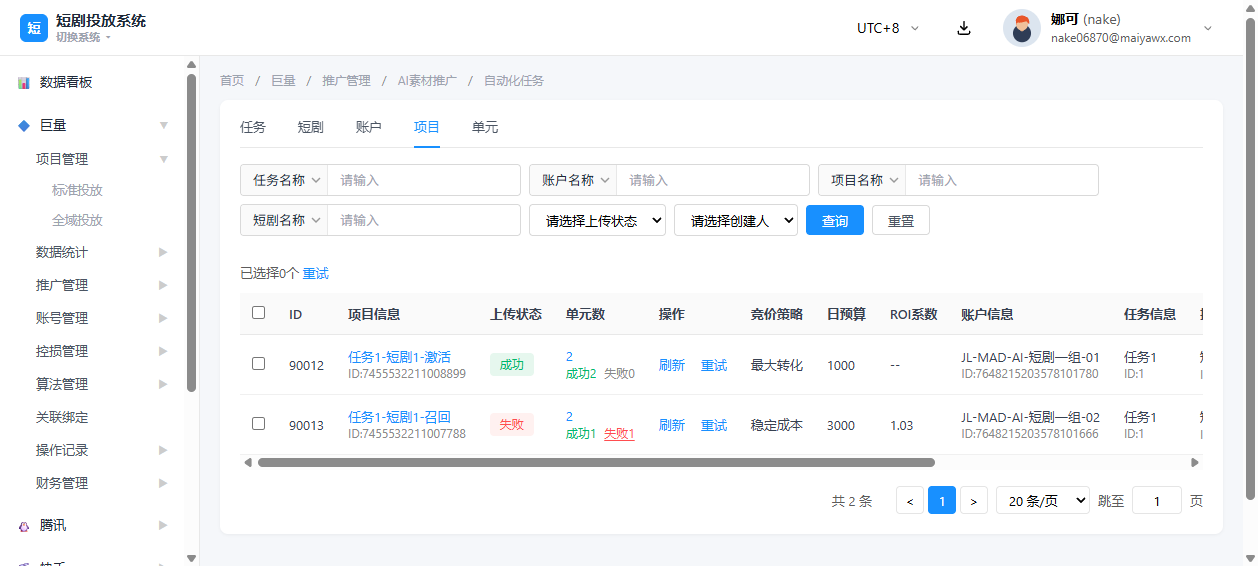
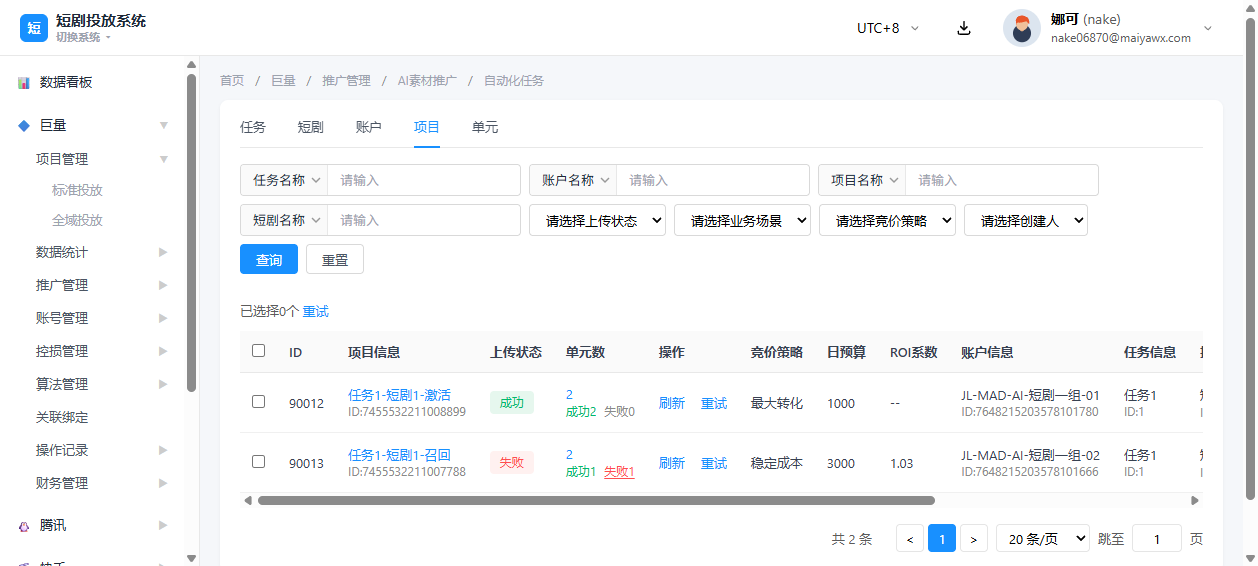
feat(domestic): AI素材推广自动化任务-项目/单元补齐业务场景与竞价策略筛选项及字段，业务场景统一为端原生IAA/端原生付费

diff --git a/index.html b/index.html
@@ -1495,6 +1495,16 @@
                     <option value="fail">失败</option>
                   </select>
                   <select class="filter-select">
+                    <option value="">请选择业务场景</option>
+                    <option value="dyy-iaa">端原生IAA</option>
+                    <option value="dyy-pay">端原生付费</option>
+                  </select>
+                  <select class="filter-select">
+                    <option value="">请选择竞价策略</option>
+                    <option value="stable-cost">稳定成本</option>
+                    <option value="max-convert">最大转化</option>
+                  </select>
+                  <select class="filter-select">
                     <option value="">请选择创建人</option>
                     <option value="nake">娜可</option>
                     <option value="huanxue">还音</option>
@@ -1552,7 +1562,7 @@
                             <div style="font-size: 12px; color: var(--color-text-tertiary);">ID:1</div>
                           </td>
                           <td>短剧1<br /><span style="color:var(--color-text-tertiary);">ID:1001</span></td>
-                          <td>崛原生免费</td>
+                          <td>端原生付费</td>
                           <td>娜可</td>
                           <td>2026-10-20 10:12:35</td>
                         </tr>
@@ -1578,7 +1588,7 @@
                             <div style="font-size: 12px; color: var(--color-text-tertiary);">ID:1</div>
                           </td>
                           <td>短剧1<br /><span style="color:var(--color-text-tertiary);">ID:1001</span></td>
-                          <td>崛原生免费</td>
+                          <td>端原生IAA</td>
                           <td>娜可</td>
                           <td>2026-10-20 10:12:38</td>
                         </tr>
@@ -1642,6 +1652,16 @@
                     <option value="fail">失败</option>
                   </select>
                   <select class="filter-select">
+                    <option value="">请选择业务场景</option>
+                    <option value="dyy-iaa">端原生IAA</option>
+                    <option value="dyy-pay">端原生付费</option>
+                  </select>
+                  <select class="filter-select">
+                    <option value="">请选择竞价策略</option>
+                    <option value="stable-cost">稳定成本</option>
+                    <option value="max-convert">最大转化</option>
+                  </select>
+                  <select class="filter-select">
                     <option value="">请选择创建人</option>
                     <option value="nake">娜可</option>
                     <option value="huanxue">还音</option>
@@ -1665,6 +1685,7 @@
                           <th>上传状态</th>
                           <th>操作</th>
                           <th>竞价策略</th>
+                          <th>业务场景</th>
                           <th>项目信息</th>
                           <th>账户信息</th>
                           <th>任务信息</th>
@@ -1683,6 +1704,7 @@
                           <td><span class="tag tag-success">成功</span></td>
                           <td><div class="row-actions"><button class="row-action-btn" onclick="refreshAiAutoRow('单元',30021)">刷新</button> <button class="row-action-btn" onclick="retryAiAutoRow('单元',30021)">重试</button></div></td>
                           <td>最大转化</td>
+                          <td>端原生付费</td>
                           <td>
                             任务1-短剧1-激活
                             <div style="font-size: 12px; color: var(--color-text-tertiary);">ID:7455532211008899</div>
@@ -1708,6 +1730,7 @@
                           <td><span class="tag tag-error">失败</span></td>
                           <td><div class="row-actions"><button class="row-action-btn" onclick="refreshAiAutoRow('单元',30020)">刷新</button> <button class="row-action-btn" onclick="retryAiAutoRow('单元',30020)">重试</button></div></td>
                           <td>稳定成本</td>
+                          <td>端原生IAA</td>
                           <td>
                             任务1-短剧1-召回
                             <div style="font-size: 12px; color: var(--color-text-tertiary);">ID:7455532211007788</div>
@@ -1817,7 +1840,7 @@
                           </div>
                         </div>
                       </div>
-                      <div class="ai-schedule-section" style="padding-top: 20px; border-top: 1px solid var(--color-border);">
+                      <div class="ai-schedule-section" style="padding-top: 20px;">
                         <h4 class="form-section-title">投放配置</h4>
                         <div class="form-row">
                           <div class="form-item">
@@ -1848,7 +1871,7 @@
                           </div>
                         </div>
                       </div>
-                      <div class="ai-schedule-section" style="padding-top: 20px; border-top: 1px solid var(--color-border);">
+                      <div class="ai-schedule-section" style="padding-top: 20px;">
                         <h4 class="form-section-title">项目排期</h4>
                         <div class="form-row">
                           <div class="form-item">
@@ -1910,7 +1933,7 @@
                           </div>
                         </div>
                       </div>
-                      <div class="ai-schedule-section" style="padding-top: 20px; border-top: 1px solid var(--color-border);">
+                      <div class="ai-schedule-section" style="padding-top: 20px;">
                         <h4 class="form-section-title">投放配置</h4>
                         <div class="form-row">
                           <div class="form-item">
@@ -1925,7 +1948,7 @@
                           </div>
                         </div>
                       </div>
-                      <div class="ai-schedule-section" style="padding-top: 20px; border-top: 1px solid var(--color-border);">
+                      <div class="ai-schedule-section" style="padding-top: 20px;">
                         <h4 class="form-section-title">项目排期</h4>
                         <div class="form-row">
                           <div class="form-item">
@@ -1987,7 +2010,7 @@
                           </div>
                         </div>
                       </div>
-                      <div class="ai-schedule-section" style="padding-top: 20px; border-top: 1px solid var(--color-border);">
+                      <div class="ai-schedule-section" style="padding-top: 20px;">
                         <h4 class="form-section-title">投放配置</h4>
                         <div class="form-row">
                           <div class="form-item">
@@ -2015,7 +2038,7 @@
                           </div>
                         </div>
                       </div>
-                      <div class="ai-schedule-section" style="padding-top: 20px; border-top: 1px solid var(--color-border);">
+                      <div class="ai-schedule-section" style="padding-top: 20px;">
                         <h4 class="form-section-title">项目排期</h4>
                         <div class="form-row">
                           <div class="form-item">
@@ -2077,7 +2100,7 @@
                           </div>
                         </div>
                       </div>
-                      <div class="ai-schedule-section" style="padding-top: 20px; border-top: 1px solid var(--color-border);">
+                      <div class="ai-schedule-section" style="padding-top: 20px;">
                         <h4 class="form-section-title">投放配置</h4>
                         <div class="form-row">
                           <div class="form-item">
@@ -2087,7 +2110,7 @@
                           </div>
                         </div>
                       </div>
-                      <div class="ai-schedule-section" style="padding-top: 20px; border-top: 1px solid var(--color-border);">
+                      <div class="ai-schedule-section" style="padding-top: 20px;">
                         <h4 class="form-section-title">项目排期</h4>
                         <div class="form-row">
                           <div class="form-item">
@@ -2118,6 +2141,7 @@
                         </div>
                       </div>
                     </div>
+                  </div>
 
                   <div id="ai-drawer-global" class="ai-drawer-pane" style="display: none;">
                     <div class="form-row">
@@ -2127,7 +2151,7 @@
                       </div>
                     </div>
                     <div style="font-size: 12px; color: var(--color-text-tertiary); margin-top: 12px;">具体字段待补充</div>
-                    <div class="ai-schedule-section" style="margin-top: 24px; padding-top: 20px; border-top: 1px solid var(--color-border);">
+                    <div class="ai-schedule-section" style="margin-top: 24px; padding-top: 20px;">
                       <h4 class="form-section-title">项目排期</h4>
                       <div class="form-row">
                         <div class="form-item">
